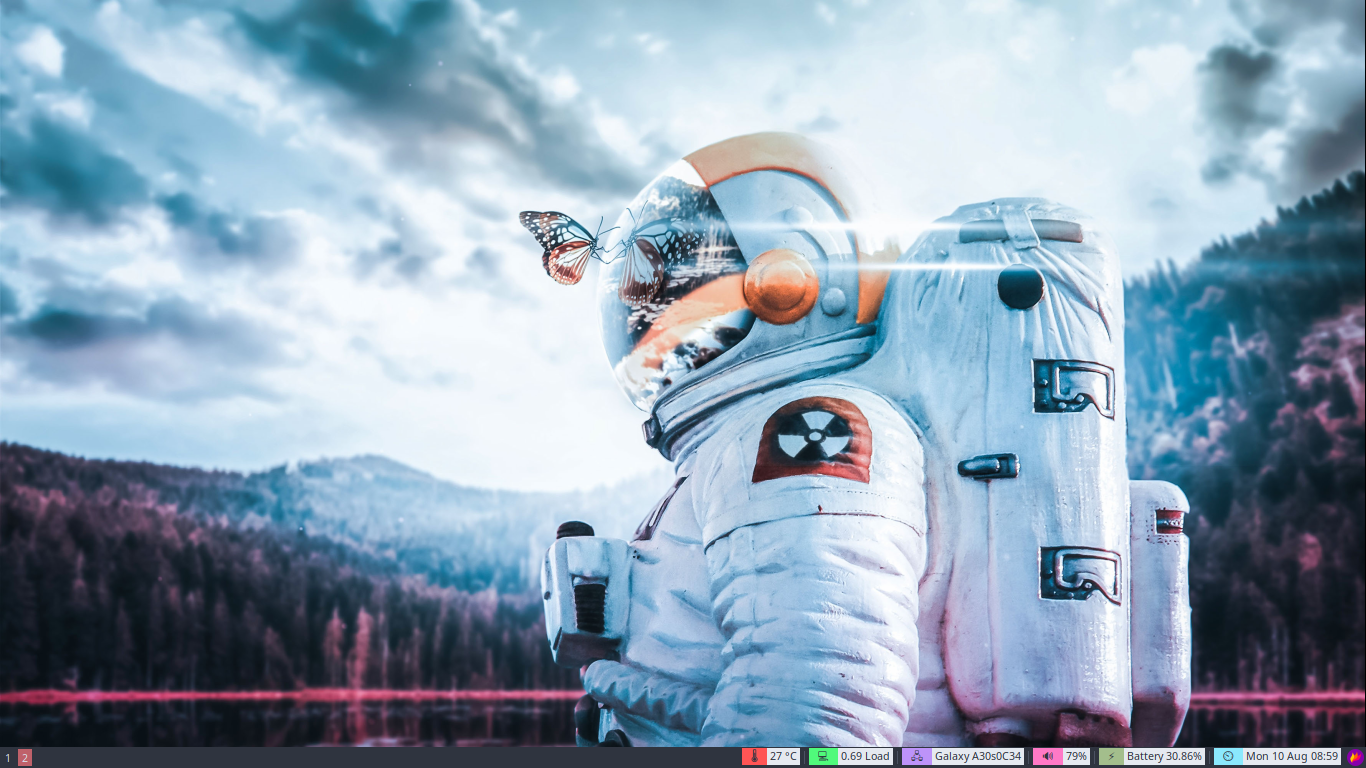
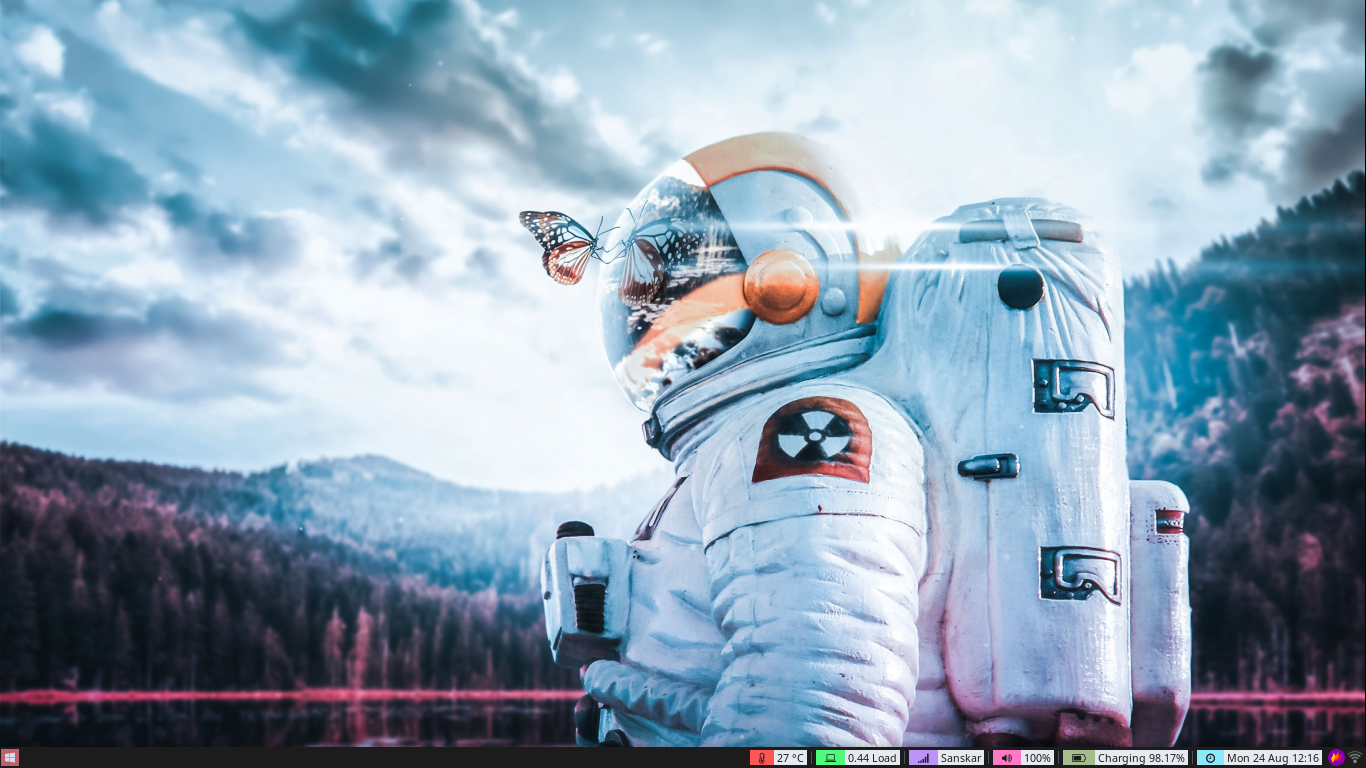
Iconed workspaces.

Changed region(s): [[0.0, 0.9688, 1.0, 1.0]]

diff --git a/README.md b/README.md
@@ -13,6 +13,8 @@ Termite
 <img src="https://github.com/Dhirajraje/i3wm-astronaut/blob/master/sreenshots/2020-08-10_09-02.png">
 Rofi
 <img src="https://github.com/Dhirajraje/i3wm-astronaut/blob/master/sreenshots/2020-08-10_09-01.png">
+i3status with icon workspace
+<img src="https://github.com/Dhirajraje/i3wm-astronaut/blob/master/sreenshots/statusbar.png">
 # just FYI
   wallpaper changes accordingly day-night.
   
@@ -41,7 +43,7 @@ My keybind is pretty weird, I'm more focus on easy to memorize <br />
   *Prerequisite*<br>
   `sudo pacman -S i3-wm i3status rofi i3lock dunst hsetroot`<br>
   *optional* but recommended<br>
-  `sudo pacman -S termite xsel scrot compton lxappearance network-manager-applet pcmanfm volumeicon flameshot`<br>
+  `sudo pacman -S termite xsel scrot compton lxappearance network-manager-applet pcmanfm volumeicon flameshot awesome-terminal-fonts`<br>
   *Install*<br>
   `git clone https://github.com/Dhirajraje/i3wm-astronaut.git && cp -a i3wm-astronaut/. ~`<br>
   *after installation tweak as per your preferences using lxappearence*
